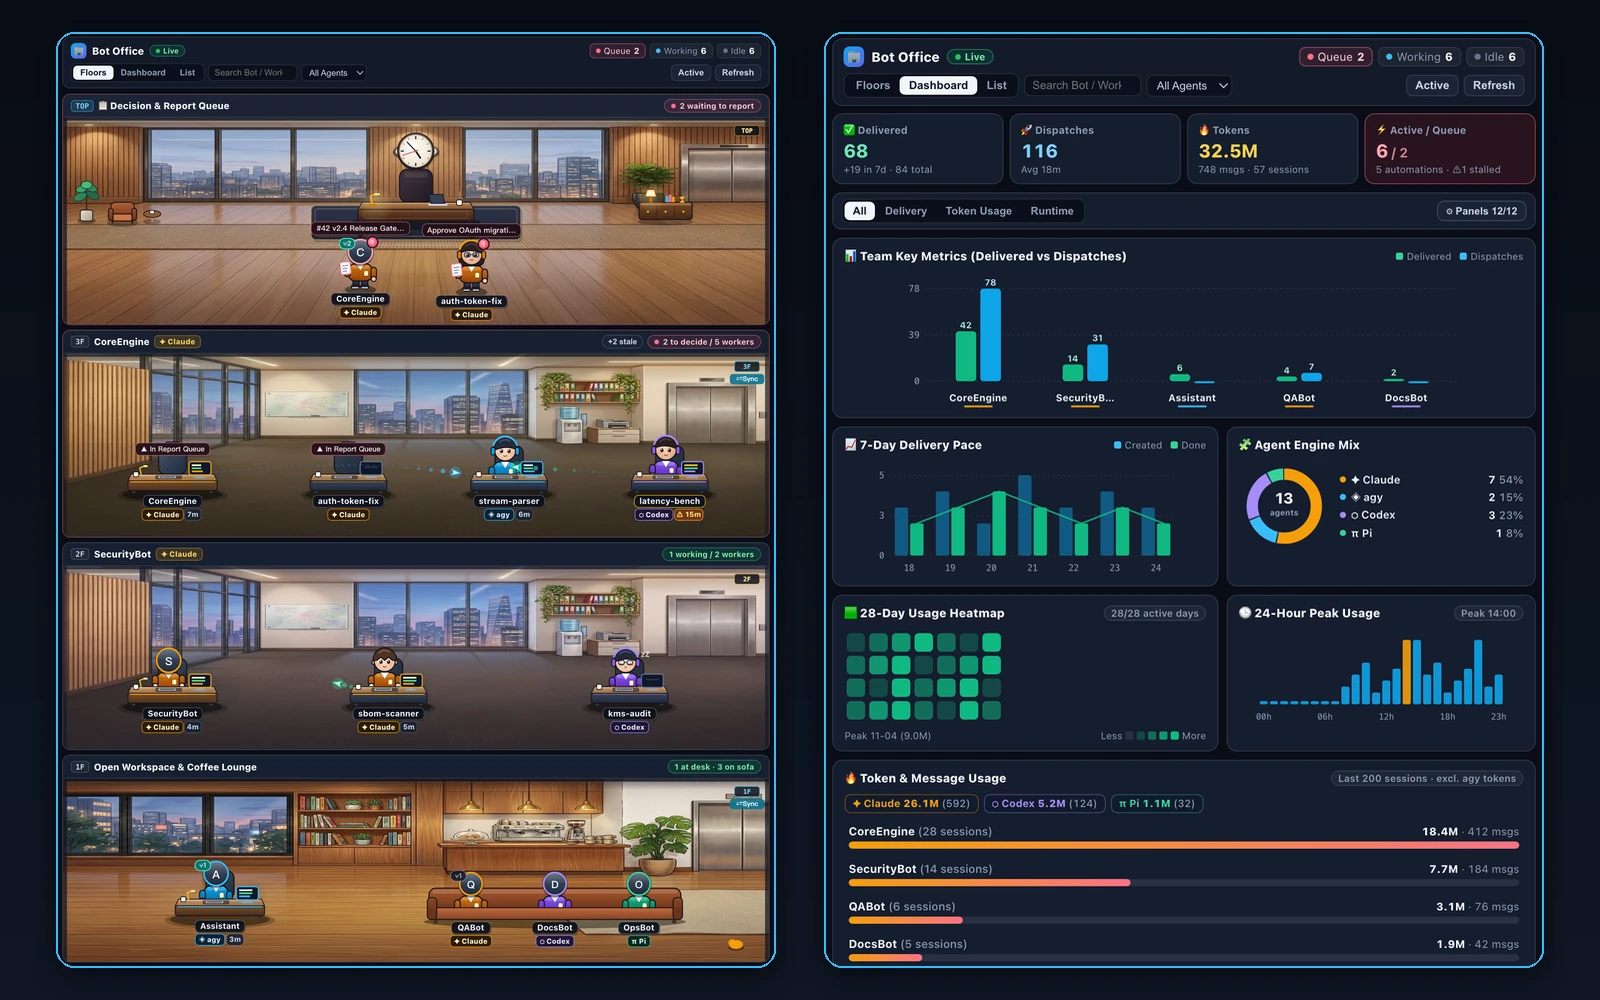
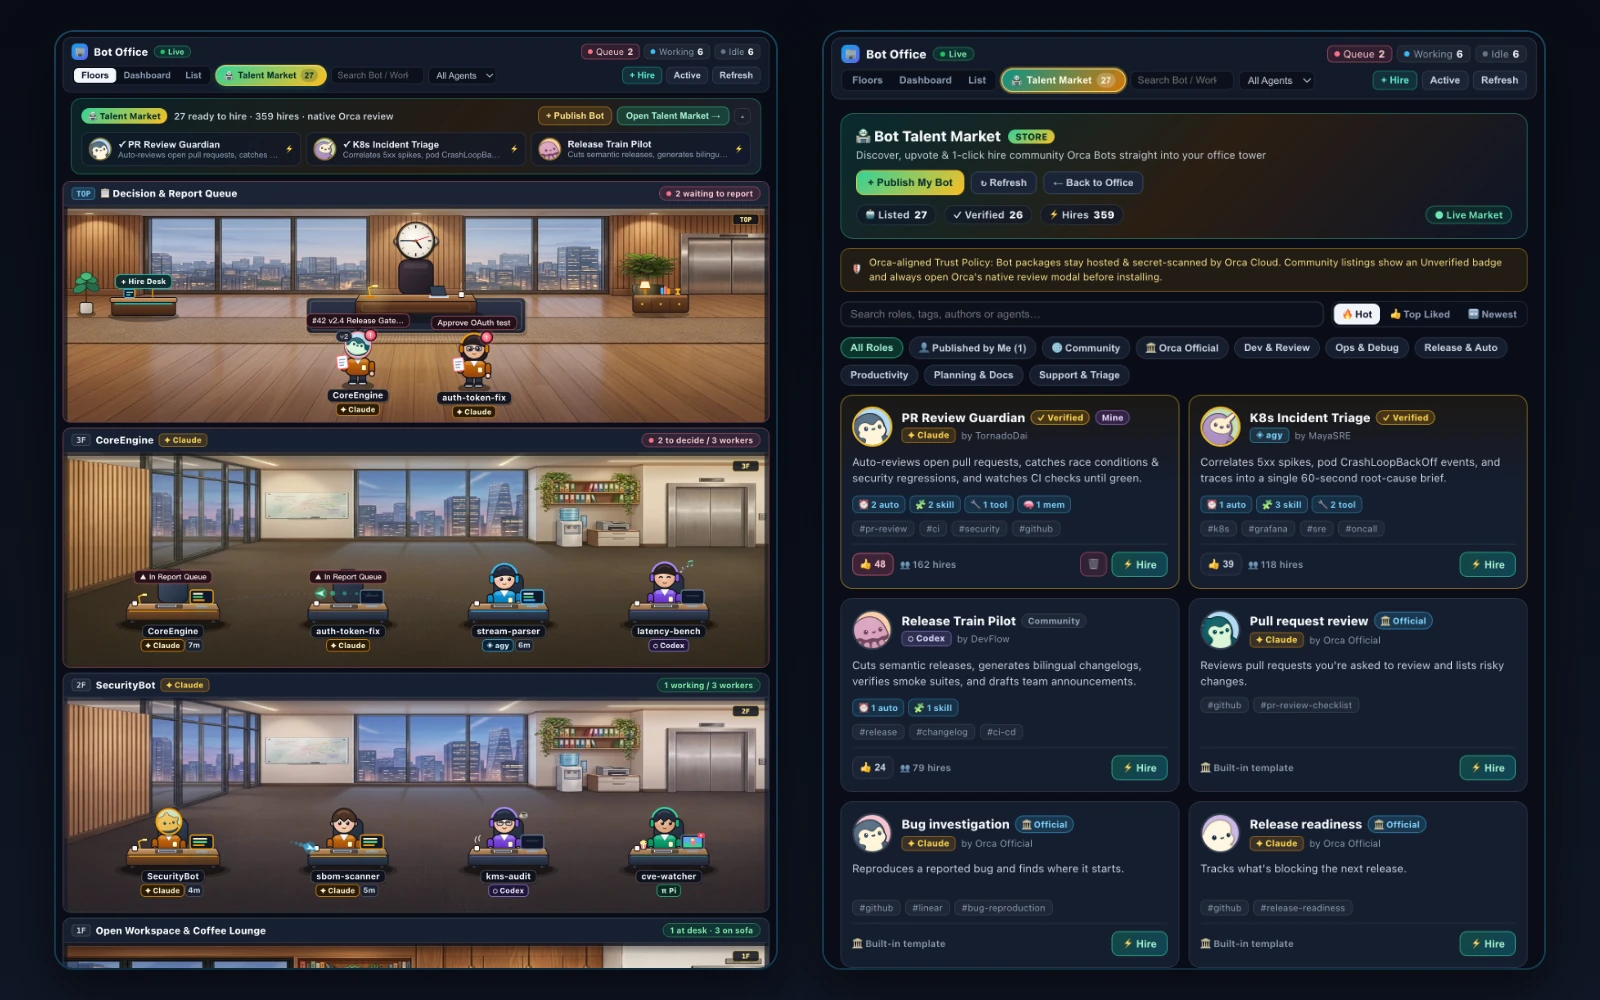
docs(assets): refresh cover, screenshots, manifest and README for Bot Talent Market (v0.16.6)

diff --git a/README.md b/README.md
@@ -1,12 +1,15 @@
 # Bot Office — Orca Plugin
 
-An ultra-lightweight **2.5D Side-Scrolling Stacked Office Tower & Grouped Workbench** for Orca's right sidebar. Bots needing your decision ride upstairs to queue in the furnished **Decision & Report Suite** beneath a live real-time wall clock, while every team gets its own bright modern studio floor with crisp full-bodied sprites, unmistakable agent engine badges (`Claude`, `agy`, `Codex`, `Pi`), non-conflicting top-left teal branch-chat badges (`⑂N`), sleek luminous message streams, and a categorized Magpie-style SVG analytics dashboard.
+An ultra-lightweight **2.5D Illustrated Office Tower + Built-In Bot Talent Market** for Orca's right sidebar. Discover, upvote, and 1-click hire **24 official Orca Bot templates** and community-shared Bots straight into your office tower — or 1-click share your own Bot with automatic secret redaction, selectable bundles (schedules, skills, MCP tools, memory, settings), and instant self-delete. Meanwhile, Bots needing your decision queue in the furnished **Decision & Report Suite**, idle workers relax with coffee/TV/music, and a categorized SVG analytics dashboard tracks delivery, tokens, and runtime health.
 
 [中文说明](#中文说明)
 
-![Bot Office — 2.5D Office Tower & Categorized Dashboard](./assets/screenshot.png)
+![Bot Office — 2.5D Office Tower & Built-In Bot Talent Market](./assets/screenshot.png)
 
 ## Gallery
+
+### 1-Click Auto-Sanitized Sharing, Bundle Picker & Light-Theme Resume Audit
+![Bot Talent Market — 1-Click Sanitized Share Bundle Picker & Light-Theme Bot Resume Detail](./assets/preview-market.png)
 
 ### Categorized Dashboard, 12-Panel Switch Drawer & Magpie-Style Usage Charts
 ![Categorized Dashboard — 28-Day Heatmap, 24h Peak Hours, Branch Activity, Automations & Orca Diagnostics](./assets/preview-analytics.png)
@@ -16,7 +19,10 @@ An ultra-lightweight **2.5D Side-Scrolling Stacked Office Tower & Grouped Workbe
 
 ## Features
 
-- **Illustrated 2.5D Modern Office Tower (`<canvas>`)**: Warm painted high-rise office backdrops (furnished executive briefing suite with a **live real-time circular wall clock**, glass-partitioned startup studios with twilight skylines, whiteboards, water coolers, printers, bookshelves, and a cozy `1F` espresso café lounge) cached offscreen with 3D-shaded oak workstations.
+- **🏪 Built-In Bot Talent Market ("Plugin-within-a-Plugin")**: Prominent glowing top-bar entry, collapsible lobby showcase banner, and `+ Hire` bridge. Pre-populated with all **24 official Orca Bot templates** (bilingual EN/ZH) alongside live community listings (Cloudflare Worker + D1 with multi-CDN read-only fallback).
+  - **1-Click Auto-Fill & Privacy Sanitizer**: Pick any local Bot to auto-extract its `SOUL.md`, **Schedules & Automations**, **Skills**, **MCP Tools** (secrets stripped), optional **Memory files** (off by default, credential files like `memory/credentials.md` hard-blocked), and **Settings**. Automatically redacts keys/tokens/emails/IPs/local paths locally and on the server, replaces custom uploaded avatars with a random official Orca mascot (+ `🎲 Shuffle`), and generates an instant shareable link (`/s/<code>`).
+  - **Native Safe Hire, Upvotes & Self-Delete**: Audit every included module before clicking **Hire** (launches Orca's native Create Bot card or `orca://bots/share/<id>`), upvote favorites, and manage or permanently delete your own shared Bots anytime under **Published by Me**.
+- **Illustrated 2.5D Modern Office Tower (`<canvas>`)**: Warm painted high-rise office backdrops (furnished executive briefing suite with a **live real-time circular wall clock**, glass-partitioned startup studios with twilight skylines, and a cozy `1F` espresso café lounge), native rendering of all **20 official Orca mascots**, grounded bottom-up floor stacking, and 5 playful idle-worker slacking activities (coffee, phone, TV, music, nap).
 - **Interactive Decision-First Card (`TOP` Report Queue)**: Any Bot or teammate synced with Orca's native `Needs you` items queues in front of the unlabeled executive desk (empty chair by default, or optional custom avatar via `ownerAvatarMode` / `ownerAvatarPath`) holding a report clipboard. Click to view the **exact active decision context** (full `--after` pagination matching `item.question.eventId`, clickable URLs, zero scroll clutter), pick options, and hit **Enter** to route your answer straight back to that Bot's item chat.
 - **In-Office Bot Hiring (`+ Hire`) & Clickable Executive Chair**: Click **`+ Hire`** in the top bar to recruit a new Bot through your HR/Creator Bot — supporting both **Direct Create Card** (`orca bot create --offer`) and **Discuss with HR First**. Click the **TOP floor executive chair** directly anytime to switch between **Empty Chair**, **Silhouette**, or **Custom Image** (with built-in local image upload).
 - **Native Light & Dark Themes**: Automatically follows Orca's Light and Dark color schemes across the floor cards, SVG analytics charts, tables, and inspector modal.
@@ -51,21 +57,27 @@ Or in Orca: **Settings → Plugins → Install from Git** with `https://github.c
 | `dashShowAutomations` | `true` | Dashboard: show automation schedule & recent runs |
 | `dashShowLinkedRefs` | `true` | Dashboard: show team PR / MR / Issue rollup |
 | `dashShowDiagnostics` | `true` | Dashboard: show Orca memory & process diagnostics |
+| `marketApiUrl` | built-in Worker URL | Custom Talent Market API URL (leave empty to use the built-in Cloudflare Worker + CDN mirror) |
 | `language` | `auto` | UI language (`auto`, `en`, `zh`) |
 
 ---
 
 ## 中文说明
 
-挂在 Orca 右侧栏的**超轻量 2.5D 横版平面分层「AI 总部大楼」+ 分组工作台插件（Bot 工位）**。
+挂在 Orca 右侧栏的**超轻量 2.5D 写字楼「AI 总部大楼」+ 内置「Bot 人才市场」插件**。
 
-![AI 总部大楼 — 2.5D 楼层与分类仪表盘](./assets/screenshot.png)
+![AI 总部大楼 — 2.5D 楼层与内置 Bot 人才市场](./assets/screenshot.png)
+
+![Bot 人才市场 — 一键脱敏打包分享、模块勾选与浅色简历详情](./assets/preview-market.png)
 
 ![分类仪表盘 — 28 天热力图、24 小时峰值、分支聊天、定时任务与 Orca 诊断](./assets/preview-analytics.png)
 
 ![浅色主题 — 卡片内直接决策回复与浅色仪表盘](./assets/preview-light-decision.png)
 
-- **真实立体感现代写字楼插画分层**：采用 2.5D 精绘暖光写字楼室内实景底图，顶层为精装「决策汇报区」（配备**实时走时的正圆挂钟**、藏青金边地毯、候场沙发茶几与胡桃木矮柜台灯），下层为玻璃隔断研发工作室与 1F 意式咖啡吧台，静态背景离屏缓存零渲染负担。
+- **🏪 内置 Bot 人才市场（插件里的插件）**：顶部高亮入口 + 大厅可折叠推荐栏 + `+ 招新` 弹窗直达，内置全部 **24 个 Orca 官方岗位模板**与实时社区分享（Cloudflare Worker + D1，内置多 CDN 只读镜像回退）。
+  - **一键自动识别、可选打包与自动脱敏**：选中本机 Bot 自动提取并脱敏 `SOUL.md`、**定时任务/自动化**、**技能（Skills）**、**工具/MCP**（自动剥离密钥）、**记忆文件**（默认不勾选，自动硬拦截 `credentials.md` 等敏感凭据文件）与**设置提示**；自定义上传头像自动随机替换为 19 个 Orca 官方吉祥物（支持 `🎲 换头像`），一键生成公开分享链接（`/s/<code>`）。
+  - **安全审查、点赞与本人彻底删除**：招聘前可展开审查全部脱敏配置，点击「一键招聘」唤起 Orca 原生创建卡；支持「👤 我发布的」筛选与本人两步确认彻底删除（原链接立即 404 失效）。
+- **真实立体感现代写字楼插画分层**：采用 2.5D 精绘暖光写字楼室内实景底图，完整渲染全部 **20 个 Orca 官方吉祥物**，支持落地式自下而上排桌与 5 种空闲 Worker 摸鱼彩蛋（喝咖啡、刷手机、看电视、听歌、打盹）；顶层为配备**实时走时挂钟**的精装决策汇报区，静态背景离屏缓存零渲染负担。
 - **顶层「决策汇报区」+ 卡片内直接决策回复**：中央设置无文字原木工位（默认空椅隐形，可在插件设置里自定义头像 `ownerAvatarMode` / `ownerAvatarPath`），所有待决策 Bot 整齐在前方排队汇报；点开卡片精确翻页（`--after`）匹配当前最新待决策事件，完整呈现未截断上下文与可点选项，支持直接点选或回车把答复发回对应 Bot 聊天继续推进。
 - **办公室内直接招新（`+ 招新`）& 汇报区工位点选换形象**：顶栏新增 **`+ 招新`** 按钮，可选择负责招聘的 HR Bot，同时支持**「直接出创建卡」**与**「和 HR 先聊需求」**两种方式；直接点击顶层汇报区**中央皮椅/办公桌**即可随时切换「空椅隐形 / 极淡剪影 / 上传任意本地头像图片」，无需再去设置页手填路径。
 - **原生浅色 / 深色双主题**：顶栏、楼层卡片、仪表盘 SVG 图表与详情卡片全部响应 Orca 浅色与深色主题切换。
